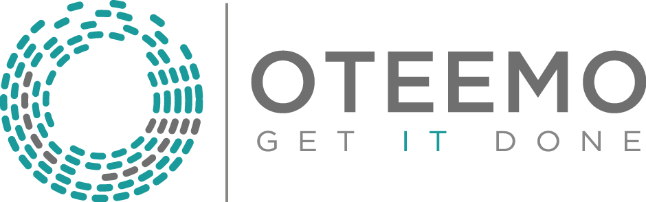
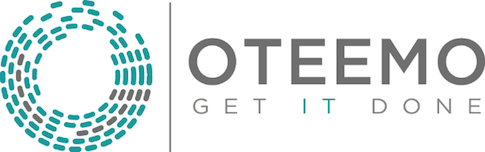
final commit

diff --git a/src/main/webapp/WEB-INF/views/signup/signup.html b/src/main/webapp/WEB-INF/views/signup/signup.html
@@ -17,9 +17,9 @@
     </th:block>
 		<div class="container-fluid">
 			<div class="text-center">
-				<div class="uscourts-header" style="width: 50px; height: 50px">
-					<img th:src="@{/resources/images/oteemo-banner.png}"
-						src="../../../resources/images/oteemo-banner.png" />
+				<div class="oteemo-header">
+					<img th:src="@{/resources/images/oteemo-icon.png}"
+						src="../../../resources/images/oteemo-icon.png" />
 				</div>
 			</div>
 		</div>

diff --git a/src/main/webapp/WEB-INF/views/home/homeSignedIn.html b/src/main/webapp/WEB-INF/views/home/homeSignedIn.html
@@ -24,8 +24,8 @@
 		<div class="container-fluid">
  			<div class="text-center">
 				<div class="oteemo-header">
-					<img th:src="@{/resources/images/oteemo-banner.jpg}"
-						src="../../../resources/images/oteemo-banner.jpg" />
+					<img th:src="@{/resources/images/oteemo-banner.png}"
+						src="../../../resources/images/oteemo-banner.png" />
 				</div>
 			</div>
 			<div class="text-center" style="padding-top: 50px">

diff --git a/src/main/webapp/WEB-INF/views/home/homeNotSignedIn.html b/src/main/webapp/WEB-INF/views/home/homeNotSignedIn.html
@@ -18,7 +18,7 @@
 		<div class="container-fluid">
 			<div class="text-center">
 				<div class="oteemo-header">
-					<img th:src="@{/resources/images/oteemo-banner.jpg}" src="../../../resources/images/oteemo-banner.jpg"/>
+					<img th:src="@{/resources/images/oteemo-banner.png}" src="../../../resources/images/oteemo-banner.png"/>
 				</div>
 			</div>
 			<div class="text-center">

diff --git a/src/main/webapp/WEB-INF/views/signin/signin.html b/src/main/webapp/WEB-INF/views/signin/signin.html
@@ -19,8 +19,8 @@
 		<div class="container-fluid">
 			<div class="text-center">
 				<div class="oteemo-header">
-					<img th:src="@{/resources/images/oteemo-banner.png}"
-						src="../../../resources/images/oteemo-banner.png" />
+					<img th:src="@{/resources/images/oteemo-icon.png}"
+						src="../../../resources/images/oteemo-icon.png" />
 				</div>
 			</div>
 		</div>
